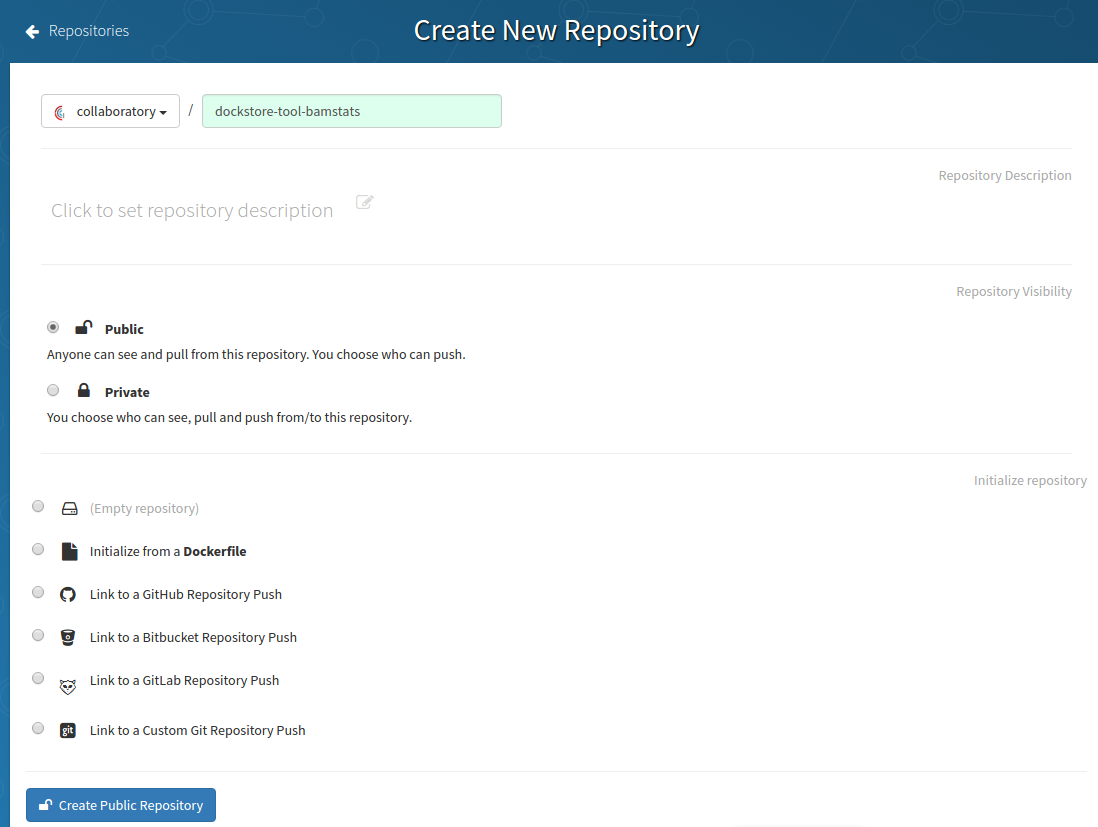
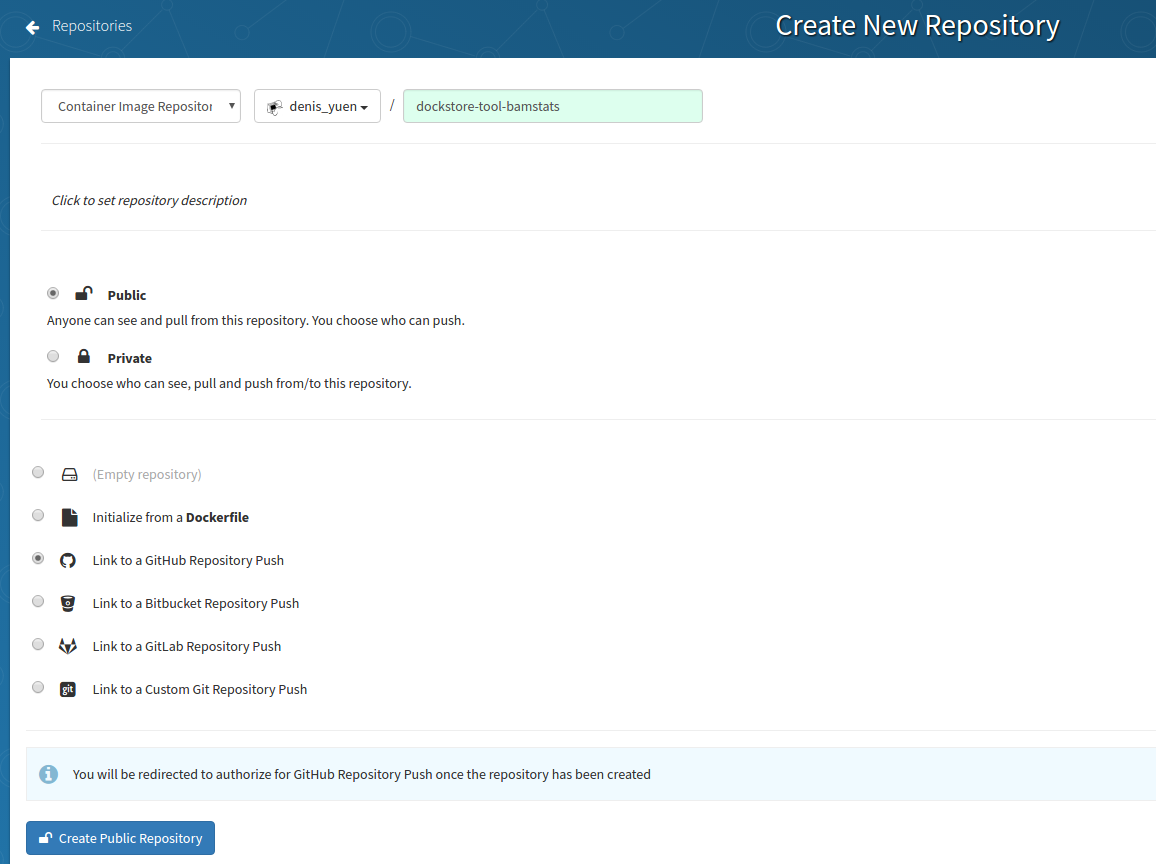
Update documentation on quay.io to address https://github.com/ga4gh/dockstore/issues/731

diff --git a/app/docs/markdown/getting-started-with-cwl.md b/app/docs/markdown/getting-started-with-cwl.md
@@ -34,7 +34,7 @@ Again, we provide an example from the [dockstore-tool-bamstats](https://github.c
 
     requirements:
       - class: DockerRequirement
-        dockerPull: "quay.io/collaboratory/dockstore-tool-bamstats:1.25-6"
+        dockerPull: "quay.io/collaboratory/dockstore-tool-bamstats:1.25-6_1.1"
 
     hints:
       - class: ResourceRequirement
@@ -102,7 +102,7 @@ You can register for an [ORCID](http://orcid.org/) (a digital identifer for rese
 ```
 requirements:
   - class: DockerRequirement
-    dockerPull: "quay.io/collaboratory/dockstore-tool-bamstats:1.25-3"
+    dockerPull: "quay.io/collaboratory/dockstore-tool-bamstats:1.25-6_1.1"
 ```
 
 This section links the Docker image used to this CWL.  Notice it's exactly the same as the `-t` you used when building your image.
@@ -263,13 +263,13 @@ We are able register the above input parameterization of the tool into Dockstore
 
 ## Releasing on GitHub
 
-At this point we've successfully created our tool in Docker, tested it, written a CWL that describes how to run it, and tested running this via the Dockstore command line.  All of this work has been done locally, so if we encounter problems along the way its fast to perform debug cycles, fixing problems as we go.  At this point we're confident that the tool is ready to share with others and bug free.  It's time to release `1.25-3`
+At this point we've successfully created our tool in Docker, tested it, written a CWL that describes how to run it, and tested running this via the Dockstore command line.  All of this work has been done locally, so if we encounter problems along the way its fast to perform debug cycles, fixing problems as we go.  At this point we're confident that the tool is ready to share with others and bug free.  It's time to release `1.25-6_1.1`
 
-Releasing will tag your GitHub repository with a version tag so you always can get back to this particular release.  I'm going to use the tag `1.25-3` which you can see referenced in my Docker image tag and also my CWL file.  GitHub makes it very easy to release:
+Releasing will tag your GitHub repository with a version tag so you always can get back to this particular release.  I'm going to use the tag `1.25-6_1.1` which you can see referenced in my Docker image tag and also my CWL file. Note that if you're following the tutorial using a forked version of the bamstats repo, your organization name should be different. GitHub makes it very easy to release:
 
 ![Release](docs/release.png)
 
-I click on "releases" in my GitHub project [page](https://github.com/CancerCollaboratory/dockstore-tool-bamstats) and then follow the directions to create a new release. Simple as that!
+I click on "releases" in my forked version of the GitHub project [page](https://github.com/CancerCollaboratory/dockstore-tool-bamstats) and then follow the directions to create a new release. Simple as that!
 
 **Tip:** [HubFlow](https://datasift.github.io/gitflow/) is an excellent way to manage the lifecycle of releases on GitHub.  Take a look!
 
@@ -283,29 +283,28 @@ Log onto Quay now and setup a new repository (click the "+" icon).
 
 ![New Quay Repo](docs/quay_new_repo.png)
 
-You must match the name to what I was using previously, so in this case it's `CancerCollaboratory/dockstore-tool-bamstats`.  Also, Dockstore will only work with `Public` repositories currently. Notice I'm selecting "Link to a GitHub Repository Push", this is because we want Quay to automatically build our Docker image every time we update the repository on GitHub.  Very slick!
+For your sanity, you should match the name to what you were using previously, so in this case it's my username then the same repo name as in GitHub `denis-yuen/dockstore-tool-bamstats`. Also, Dockstore will only work with `Public` repositories currently. Notice I'm selecting "Link to a GitHub Repository Push", this is because we want Quay to automatically build our Docker image every time we update the repository on GitHub.  Very slick!
 
 ![Build Trigger](docs/build_all.png)
 
-It will automatically prompt you to setup a "build trigger" after GitHub authenticates you.  Here I select the GitHub repo for `CancerCollaboratory/dockstore-tool-bamstats`.
+Click through to select the organization and repo that will act as the source for your image. Here I select the GitHub repo for `denis-yuen/dockstore-tool-bamstats` but this should be your username or organization in your tutorial run-through. 
 
-![Build Trigger](docs/build_trigger.png)
-
-It will then ask if there are particular branches you want to build, I typically just let it build everything:
+It will then ask if there are particular branches you want to build, I typically just let it build everything.
 
 So every time you do a commit to your GitHub repo Quay automatially builds and tags a Docker image.  If this is overkill for you, consider setting up particular build trigger regular expressions at this step.
 
 ![Build Trigger](docs/run_trigger.png)
 
-It will then ask you where your Dockerfile is located.  Since the Dockerfile is in the root directory of this GitHub repo you can just click next:
+It will also ask you where your Dockerfile is located and where your build context is (normally the root). 
 
-![Build Trigger](docs/dockerfile.png)
+At this point you can confirm your settings and "Create Trigger" followed by "Run Trigger Now" to actually perform the initial build of the Docker images.  You'll need to click on the little gear icon next to your build trigger to accomplish this.
 
-At this point you can confirm your settings and "Create Trigger" followed by "Run Trigger Now" to actually perform the build of the Docker images.
+![Manual Trigger](docs/manual_trigger.png)
 
-Build it for `1.25-3` and any or all other branches.  Typically, I build for each release and develop aka latest is built next time I check-in on that branch.
 
-In my example I should see a `1.25-3` listed in the "tags" for this Quay Docker repository:
+Build it for `1.25-6_1.1` for this tutorial.  Typically, I build for each release and develop aka latest is built next time I check-in on that branch.
+
+In my example I should see a `1.25-6_1.1` listed for this Quay Docker repository:
 
 ![Build Tags](docs/build_tags.png)
 

diff --git a/app/docs/markdown/getting-started-with-docker.md b/app/docs/markdown/getting-started-with-docker.md
@@ -102,9 +102,9 @@ Read more on the development process at [https://docs.docker.com](https://docs.d
 Now that you've created the `Dockerfile` the next step is to build the image.
 The docker command line is used for this:
 
-    $> docker build -t quay.io/collaboratory/dockstore-tool-bamstats:1.25-3 .
+    $> docker build -t quay.io/collaboratory/dockstore-tool-bamstats:1.25-6_1.1 .
 
-The `.` is the path to the location of the Dockerfile, which is in the same directory here. The `-t` parameter is the "tag" that this Docker image will be called locally when it's cached on your host.  A few things to point out, the `quay.io` part of the tag typically denotes that this was built on Quay.io (which we will see in the next section).  I'm manually specifying this tag so it will match the quay.io built version.  This allows me to build and test locally then, eventually, switch over to the quay.io-built version.  The next part of the tag, `collaboratory/dockstore-tool-bamstats`, denotes the name of the tool which is derived from the organization and repository name on Quay.io.  Finally `1.25-3` denotes a version string, typically you want to sync that with releases on GitHub. In this case I'm working on release `1.25-3` so this is on a release branch.  However the most recent release via GitHub is the previous version `1.25-2`.  The ramifications of this will come up in the Quay section below.
+The `.` is the path to the location of the Dockerfile, which is in the same directory here. The `-t` parameter is the "tag" that this Docker image will be called locally when it's cached on your host.  A few things to point out, the `quay.io` part of the tag typically denotes that this was built on Quay.io (which we will see in the next section).  I'm manually specifying this tag so it will match the quay.io built version.  This allows me to build and test locally then, eventually, switch over to the quay.io-built version.  The next part of the tag, `collaboratory/dockstore-tool-bamstats`, denotes the name of the tool which is derived from the organization and repository name on Quay.io.  Finally `1.25-6_1.0` denotes a version string, typically you want to sync that with releases on GitHub. In this case I'm working on release `1.25-6_1.1` so this is on a release branch.  However the most recent release via GitHub is the previous version `1.25-6_1.0`.  The ramifications of this will come up in the Quay section below.
 
 ![Release in Github](docs/previous_release.png)
 
@@ -115,7 +115,7 @@ Really, you could use whatever you want for the tag but, practically, you want t
 Check that the tool is now in your local Docker image cache:
 
     $> docker images | grep bamstats
-    quay.io/collaboratory/dockstore-tool-bamstats   1.25-3  01a7ccf55063   2 minutes ago   538.3 MB
+    quay.io/collaboratory/dockstore-tool-bamstats   1.25-6_1.1  01a7ccf55063   2 minutes ago   538.3 MB
 
 Great! This looks fine!
 
@@ -125,7 +125,7 @@ OK, so you've built the image.  Now what?
 
 The next step will be to test the tool directly via Docker to ensure that your `Dockerfile` is valid and correctly installed the tool.  If you were developing a new tool there might be multiple rounds of `docker build`, followed by tesing with `docker run` before you get your Dockerfile right.  Here I'm executing the Docker image, launching it as a container (make sure you launch on a host with at least 8GB of RAM and dozens of GB of disk space!):
 
-    $> docker run -it -v `pwd`:/home/ubuntu quay.io/collaboratory/dockstore-tool-bamstats:1.25-3 /bin/bash
+    $> docker run -it -v `pwd`:/home/ubuntu quay.io/collaboratory/dockstore-tool-bamstats:1.25-6_1.1 /bin/bash
 
 You'll be dropped into a bash shell which works just like the Linux environments you normally work in.  I'll come back to what `-v` is doing in a bit. The goal now is to exercise the tool and make sure it works as you expect.  BAMStats is a very simple tool and generates some reports and statistics for a BAM file.  Let's run it on some test data from the 1000 Genomes project:
 
@@ -161,7 +161,7 @@ Rather than interactively working with the image, you could also run your Docker
 
 ```
 wget ftp://ftp.1000genomes.ebi.ac.uk/vol1/ftp/phase3/data/NA12878/alignment/NA12878.chrom20.ILLUMINA.bwa.CEU.low_coverage.20121211.bam
-docker run -w="/home/ubuntu" -it -v `pwd`:/home/ubuntu quay.io/collaboratory/dockstore-tool-bamstats:1.25-3 bamstats 4 NA12878.chrom20.ILLUMINA.bwa.CEU.low_coverage.20121211.bam
+docker run -w="/home/ubuntu" -it -v `pwd`:/home/ubuntu quay.io/collaboratory/dockstore-tool-bamstats:1.25-6_1.1 bamstats 4 NA12878.chrom20.ILLUMINA.bwa.CEU.low_coverage.20121211.bam
 ```
 
 In the next section, we will also demonstrate how this command-line including the input file can be parameterized and constructed via CWL.

diff --git a/app/docs/markdown/getting-started-with-dockstore.md b/app/docs/markdown/getting-started-with-dockstore.md
@@ -40,11 +40,11 @@ For the tutorial, generally, you should hit the "Refresh All Tools" button to ma
 
 A tool is not visible on the public 'Tools' listing unless it is published. To publish a tool, press the yellow 'Publish' button in the top-right corner.
 
-Now select the `collaboratory/dockstore-tool-bamstats` repository and click "Publish".  The tool is now listed on Dockstore!
+Now select your version of the `collaboratory/dockstore-tool-bamstats` repository and click "Publish".  The tool is now listed on Dockstore!
 
 ![Publish](docs/publish.png)
 
-You can also click on the "Versions" tab and should notice `1.25-6` is present and valid.  If any versions are invalid it is likely due to a path issue to the `Dockstore.cwl`, `Dockerfile`, or `Dockstore.wdl` (if used) files.  In BAMStats I used the default value of `Dockstore.cwl` and `Dockerfile` in the root repo directory so this was not an issue.
+You can also click on the "Versions" tab and should notice `1.25-6_1.1` is present and valid.  If any versions are invalid it is likely due to a path issue to the `Dockstore.cwl`, `Dockerfile`, or `Dockstore.wdl` (if used) files.  In BAMStats I used the default value of `Dockstore.cwl` and `Dockerfile` in the root repo directory so this was not an issue.
 
 ![Publish](docs/versions_toggle.png)
 
